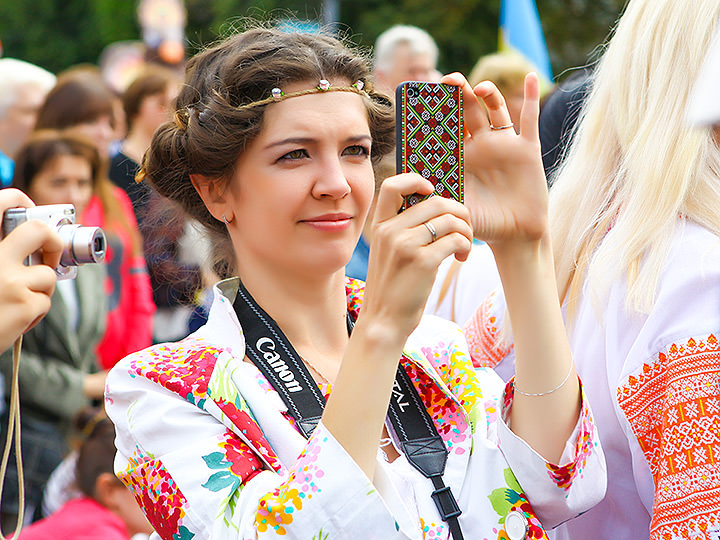
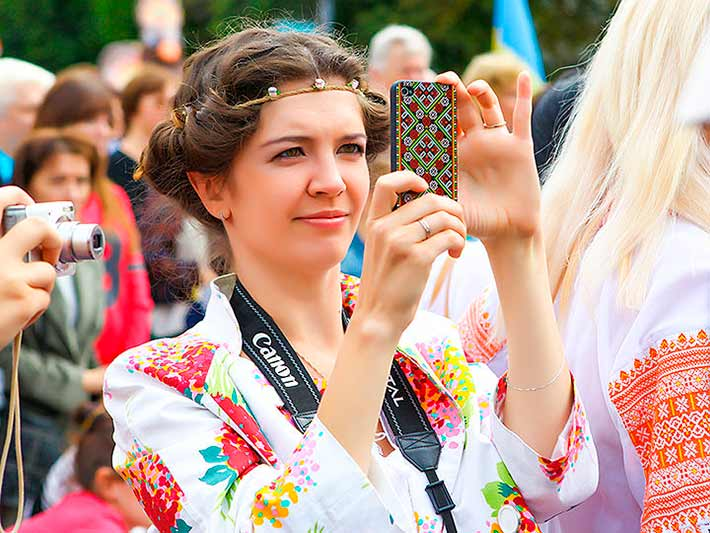
newsBlock link image size
max-width 355px

diff --git a/css/style.css b/css/style.css
@@ -2276,8 +2276,7 @@ textarea {
   box-sizing: border-box;
   max-width: 100%;
   margin-left: auto;
-  margin-right: auto;
-  position: relative; }
+  margin-right: auto; }
   .container:after {
     content: " ";
     display: block;
@@ -2351,13 +2350,17 @@ h1 {
 /* news */
 .newsBlock {
   margin-bottom: 30px; }
+  .newsBlock-link {
+    margin: 0 auto;
+    max-width: 355px;
+    display: block; }
   .newsBlock .img-responsive {
     width: 90%;
     margin: 0 auto;
     display: block; }
   .newsBlock .img-news {
     width: 40%;
-    max-width: 400px; }
+    max-width: 355px; }
     .newsBlock .img-news.pullLeft, .newsBlock .img-news.pullRight {
       padding: 10px; }
   .newsBlock h3 {

diff --git a/sass/style.scss b/sass/style.scss
@@ -242,6 +242,11 @@ textarea {
 /* news */
 .newsBlock {
   margin-bottom: 30px;
+  &-link{
+    margin: 0 auto;
+    max-width: 355px;
+    display: block;
+  }
   .img-responsive {
     width: 90%;
     margin: 0 auto;
@@ -249,7 +254,7 @@ textarea {
   }
   .img-news {
     width: 40%;
-    max-width: 400px;
+    max-width: 355px;
     &.pullLeft,
     &.pullRight {
       padding: 10px;

diff --git a/layout/m_news.php b/layout/m_news.php
@@ -10,7 +10,7 @@ foreach($news as $data)
 	{
 
 echo '	    <div class="newsBlock">
-        	<a href="'.$link.'news/'.$data["link_item"].'">
+        	<a href="'.$link.'news/'.$data["link_item"].'" class="newsBlock-link">
 		        <img class="img-responsive" src="'.$site.'img/news/'.$data["img"].'" alt="">
 		        <h3 class="truncate newsTitle">
 		        		'.$data[$lang].'
